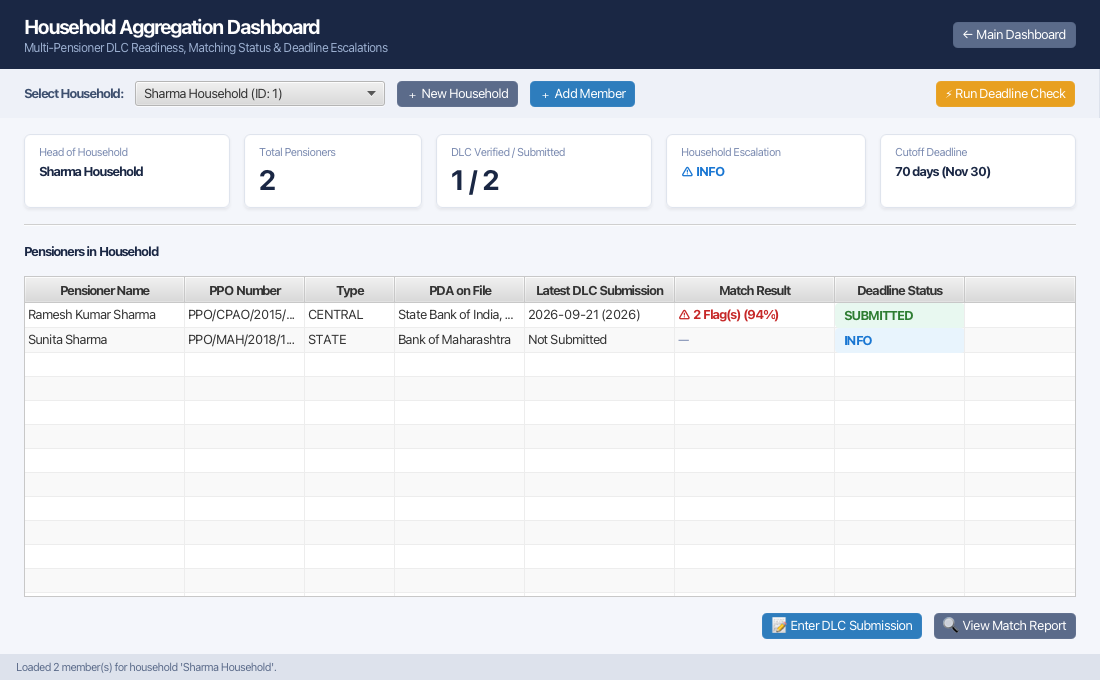
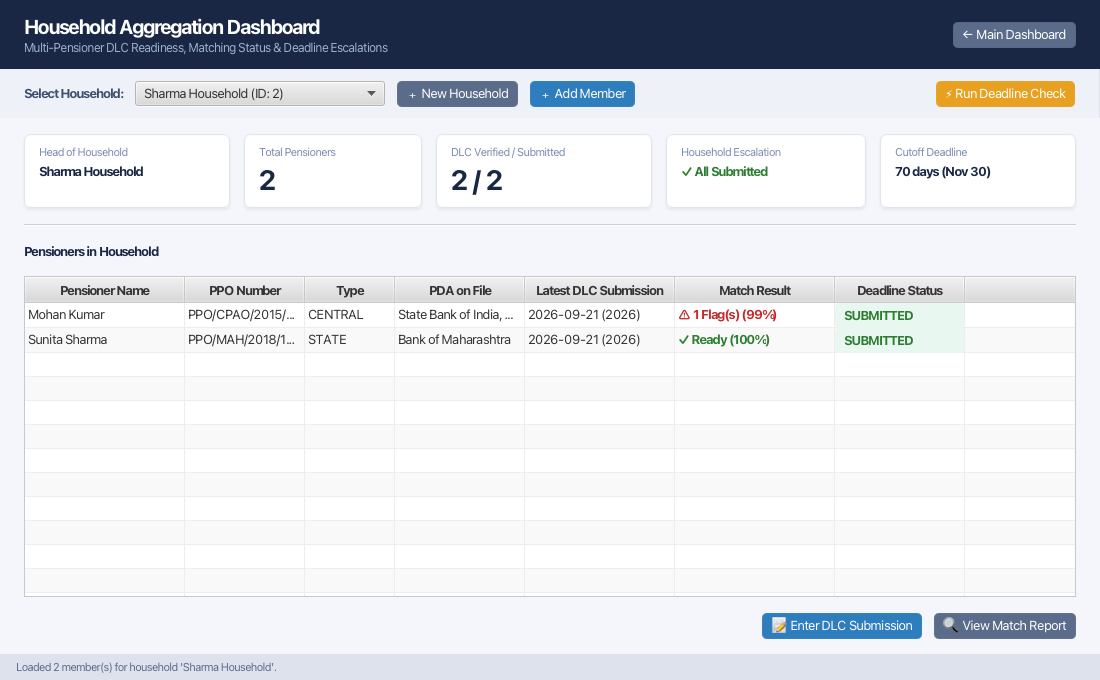
Seed realistic demo data and capture mismatch_result.png & household_dashboard.png

diff --git a/src/test/java/com/pensionsure/ui/DemoDataSeederAndCapture.java b/src/test/java/com/pensionsure/ui/DemoDataSeederAndCapture.java
@@ -1,0 +1,170 @@
+package com.pensionsure.ui;
+
+import com.pensionsure.matching.MatchReport;
+import com.pensionsure.matching.MismatchEngine;
+import com.pensionsure.model.Household;
+import com.pensionsure.model.PDARecord;
+import com.pensionsure.model.Pensioner;
+import com.pensionsure.model.Pensioner.PensionType;
+import com.pensionsure.model.Submission;
+import com.pensionsure.repository.DatabaseManager;
+import com.pensionsure.repository.PDARecordRepository;
+import com.pensionsure.repository.PensionerRepository;
+import com.pensionsure.repository.SubmissionRepository;
+import com.pensionsure.service.PensionerService;
+import javafx.application.Platform;
+import javafx.fxml.FXMLLoader;
+import javafx.scene.Parent;
+import javafx.scene.Scene;
+import javafx.scene.image.PixelReader;
+import javafx.scene.image.WritableImage;
+
+import javax.imageio.ImageIO;
+import java.awt.image.BufferedImage;
+import java.io.File;
+import java.sql.Connection;
+import java.sql.Statement;
+import java.time.LocalDate;
+import java.util.concurrent.CountDownLatch;
+
+/**
+ * Seeds realistic demo data into pensionsure.db and captures screenshots of:
+ * 1. Mismatch Detection Result Screen (mismatch_result.png) for Mohan Kumar (TC02 near-miss: "Mohan" vs "Mohann")
+ * 2. Household Dashboard (household_dashboard.png) for Sharma Household (2 members: Mohan with 1 flag, Sunita with 100% clean match)
+ */
+public class DemoDataSeederAndCapture {
+
+    public static void main(String[] args) throws Exception {
+        File dir = new File("screenshots");
+        if (!dir.exists()) dir.mkdirs();
+
+        CountDownLatch initLatch = new CountDownLatch(1);
+        try {
+            Platform.startup(initLatch::countDown);
+        } catch (IllegalStateException e) {
+            initLatch.countDown();
+        }
+        initLatch.await();
+
+        CountDownLatch renderLatch = new CountDownLatch(2);
+
+        Platform.runLater(() -> {
+            try {
+                Connection conn = DatabaseManager.getInstance().getConnection();
+                try (Statement st = conn.createStatement()) {
+                    st.execute("DELETE FROM reminder_log;");
+                    st.execute("DELETE FROM mismatch_flag;");
+                    st.execute("DELETE FROM submission;");
+                    st.execute("DELETE FROM pda_record;");
+                    st.execute("DELETE FROM pensioner;");
+                    st.execute("DELETE FROM household;");
+                }
+
+                PensionerService pService = new PensionerService(conn);
+                PensionerRepository pRepo = new PensionerRepository(conn);
+                PDARecordRepository pdaRepo = new PDARecordRepository(conn);
+                SubmissionRepository subRepo = new SubmissionRepository(conn);
+
+                // ── 1. Create Household: Sharma Household ─────────────────
+                Household household = pService.createHousehold("Sharma Household");
+
+                // ── 2. Pensioner 1: Mohan Kumar (Near-Miss TC02 Case) ──────
+                // PDA on file: "Mohan Kumar", Submitted draft: "Mohann Kumar" (1-char typo)
+                Pensioner p1 = new Pensioner(0, household.getId(), "Mohan Kumar", "1955-07-20", PensionType.CENTRAL, "PPO/CPAO/2015/88392");
+                pRepo.save(p1);
+
+                PDARecord pda1 = new PDARecord(0, p1.getId(), "Mohan Kumar", "1955-07-20", "14 Station Road, Civil Lines, Delhi 110054", "State Bank of India, Main Branch");
+                pdaRepo.save(pda1);
+
+                Submission sub1 = new Submission(0, p1.getId(), "Mohann Kumar", "1955-07-20", "14 Station Road, Civil Lines, Delhi 110054", LocalDate.now().toString(), LocalDate.now().getYear());
+                subRepo.save(sub1);
+
+                // Run matching engine and persist flags
+                MismatchEngine engine = new MismatchEngine();
+                MatchReport report1 = engine.analyse(pda1, sub1);
+                for (var flag : report1.getFlags()) {
+                    flag.setSubmissionId(sub1.getId());
+                    subRepo.saveMismatchFlag(flag);
+                }
+
+                // ── 3. Pensioner 2: Sunita Sharma (Clean TC01 Case) ────────
+                // Identical name, DOB, and address on both records
+                Pensioner p2 = new Pensioner(0, household.getId(), "Sunita Sharma", "1958-08-22", PensionType.STATE, "PPO/MAH/2018/10492");
+                pRepo.save(p2);
+
+                PDARecord pda2 = new PDARecord(0, p2.getId(), "Sunita Sharma", "1958-08-22", "Flat 402, Shanti Vihar, Pune 411001", "Bank of Maharashtra");
+                pdaRepo.save(pda2);
+
+                Submission sub2 = new Submission(0, p2.getId(), "Sunita Sharma", "1958-08-22", "Flat 402, Shanti Vihar, Pune 411001", LocalDate.now().toString(), LocalDate.now().getYear());
+                subRepo.save(sub2);
+
+                MatchReport report2 = engine.analyse(pda2, sub2);
+                for (var flag : report2.getFlags()) {
+                    flag.setSubmissionId(sub2.getId());
+                    subRepo.saveMismatchFlag(flag);
+                }
+
+                System.out.println("✓ Seeded demo data in pensionsure.db:");
+                System.out.println("  - Household: Sharma Household");
+                System.out.println("  - Pensioner 1: Mohan Kumar (Draft: 'Mohann Kumar' -> " + report1.getMismatchCount() + " flag(s), score: " + String.format("%.1f%%", report1.getOverallConfidence() * 100) + ")");
+                System.out.println("  - Pensioner 2: Sunita Sharma (Draft: Clean match -> " + report2.getMismatchCount() + " flags, score: 100.0%)");
+
+                // ── 4. Render Screenshot 1: Mismatch Detection Result Screen ─
+                FXMLLoader reportLoader = new FXMLLoader(DemoDataSeederAndCapture.class.getResource("/fxml/match_report.fxml"));
+                Parent reportRoot = reportLoader.load();
+                MatchReportController reportCtrl = reportLoader.getController();
+                Scene reportScene = new Scene(reportRoot, 920, 600);
+                reportScene.getStylesheets().add(DemoDataSeederAndCapture.class.getResource("/css/styles.css").toExternalForm());
+                reportCtrl.loadReportForPensioner(p1);
+
+                reportRoot.applyCss();
+                reportRoot.layout();
+
+                WritableImage reportImg = reportScene.snapshot(null);
+                saveWritableImageToPng(reportImg, new File("screenshots/mismatch_result.png"));
+                System.out.println("✓ Saved screenshots/mismatch_result.png");
+                renderLatch.countDown();
+
+                // ── 5. Render Screenshot 2: Household Dashboard ────────────
+                FXMLLoader hhLoader = new FXMLLoader(DemoDataSeederAndCapture.class.getResource("/fxml/household_dashboard.fxml"));
+                Parent hhRoot = hhLoader.load();
+                HouseholdDashboardController hhCtrl = hhLoader.getController();
+                Scene hhScene = new Scene(hhRoot, 1100, 680);
+                hhScene.getStylesheets().add(DemoDataSeederAndCapture.class.getResource("/css/styles.css").toExternalForm());
+                hhCtrl.loadHousehold(household);
+
+                hhRoot.applyCss();
+                hhRoot.layout();
+
+                WritableImage hhImg = hhScene.snapshot(null);
+                saveWritableImageToPng(hhImg, new File("screenshots/household_dashboard.png"));
+                System.out.println("✓ Saved screenshots/household_dashboard.png");
+                renderLatch.countDown();
+
+            } catch (Exception e) {
+                e.printStackTrace();
+                renderLatch.countDown();
+                renderLatch.countDown();
+            }
+        });
+
+        renderLatch.await();
+        Platform.exit();
+        System.out.println("All captures finished successfully.");
+    }
+
+    private static void saveWritableImageToPng(WritableImage fxImage, File targetFile) throws Exception {
+        int width = (int) fxImage.getWidth();
+        int height = (int) fxImage.getHeight();
+        BufferedImage bufferedImage = new BufferedImage(width, height, BufferedImage.TYPE_INT_ARGB);
+        PixelReader reader = fxImage.getPixelReader();
+
+        for (int y = 0; y < height; y++) {
+            for (int x = 0; x < width; x++) {
+                bufferedImage.setRGB(x, y, reader.getArgb(x, y));
+            }
+        }
+
+        ImageIO.write(bufferedImage, "png", targetFile);
+    }
+}
